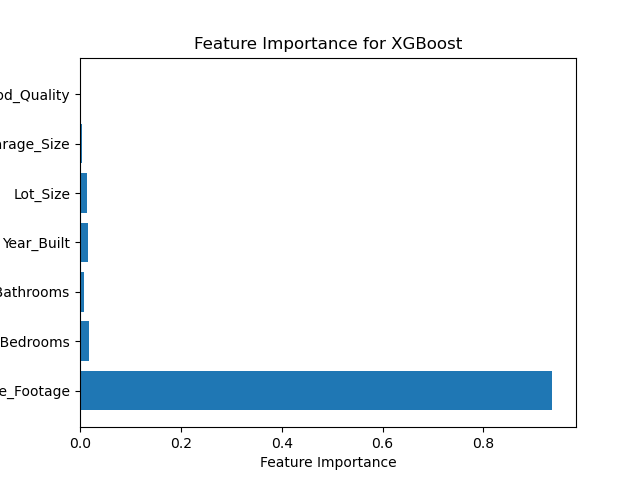
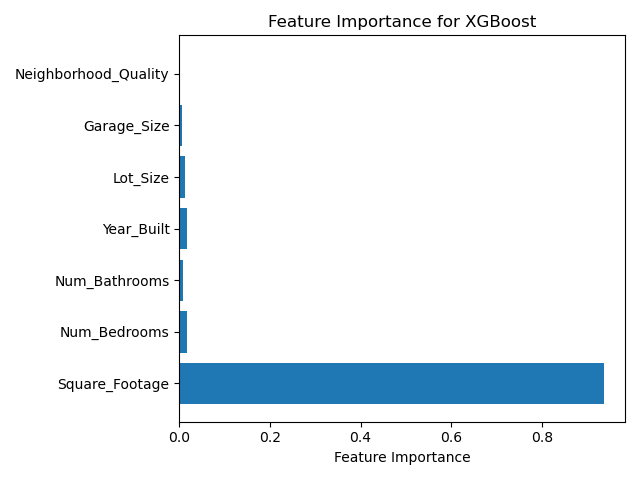
Added comments, redrew the graph for clarity

diff --git a/train_test.py b/train_test.py
@@ -9,45 +9,64 @@ import numpy as np
 import json
 from eda import read_csv_file, check_dir
 
+# Функция для разделения данных на обучающую и тестовую выборки с предварительной обработкой
 def train_test(df):
     df = df.reset_index(drop=True)
-    df['House_Price'] = np.log1p(df['House_Price'])  # Логарифмирование
+    df['House_Price'] = np.log1p(df['House_Price'])  # Логарифмирование целевой переменной
     X = df.drop('House_Price', axis=1)
     y = df['House_Price']
 
     X_train, X_test, y_train, y_test = train_test_split(X, y, test_size=0.3, random_state=101, shuffle=True)
 
+    # Масштабирование признаков
     scaler = MinMaxScaler()
     X_train = scaler.fit_transform(X_train)
     X_test = scaler.transform(X_test)
 
     return X_train, X_test, y_train, y_test, X.columns.tolist()
 
+# Функция для построения графика "Фактические vs Предсказанные"
 def plot_actual(y_test, y_pred, model_name):
     plt.scatter(y_test, y_pred, alpha=0.5)
-    plt.plot([min(y_test), max(y_test)], [min(y_test), max(y_test)], color='red',
-             linestyle='--')  # Линия идеального предсказания
+    plt.plot([min(y_test), max(y_test)], [min(y_test), max(y_test)], color='red', linestyle='--')
     plt.xlabel('Actual')
     plt.ylabel('Predicted')
-    plt.title('Actual vs Predicted')
+    plt.title(f'Actual vs Predicted for {model_name}')
     filename = f"results/actual_vs_predicted_{model_name}.png"
     plt.savefig(filename)
     plt.show()
 
+# Функция для построения графика остатков
 def plot_tails(y_test, y_pred, model_name):
     residuals = y_test - y_pred
     plt.scatter(y_pred, residuals, alpha=0.5)
     plt.axhline(y=0, color='red', linestyle='--')  # Горизонтальная линия на уровне 0
     plt.xlabel('Predicted')
     plt.ylabel('Residuals')
-    plt.title('Residual Plot')
+    plt.title(f'Residual Plot for {model_name}')
     filename = f"results/residual_plot_{model_name}.png"
+    plt.savefig(filename)
+    plt.show()
+
+# Построение важности признаков
+def plot_feature_importance(model, feature_names, model_name):
+    importances = model.feature_importances_
+
+    # Визуализация важности признаков
+    plt.barh(range(len(importances)), importances, align='center')
+    plt.yticks(range(len(importances)), feature_names)  # Используем список feature_names
+    plt.xlabel("Feature Importance")
+    plt.title(f"Feature Importance for {model_name}")
+    plt.tight_layout()
+    filename = f"results/feature_importance_{model_name}.png"
     plt.savefig(filename)
     plt.show()
 
 """Linear Regression"""
 def Linear_Regression_with_cv(X_train, X_test, y_train):
+    # Линейная регрессия с кросс-валидацией
     model = LinearRegression()
+    # Настраиваем кросс-валидацию с 5 фолдами
     kf = KFold(n_splits=5, shuffle=True, random_state=101)
     cv_scores = cross_val_score(model, X_train, y_train, cv=kf, scoring='neg_mean_squared_error')
     mse_scores = -cv_scores
@@ -57,28 +76,17 @@ def Linear_Regression_with_cv(X_train, X_test, y_train):
     print(f'Mean MSE (Cross-Validation): {mse_scores.mean()}')
     print(f'Standard Deviation of MSE (Cross-Validation): {mse_scores.std()}')
 
+    # Обучаем модель на полной обучающей выборке
     model.fit(X_train, y_train)
-
+    # Делаем предсказания на тестовой выборке
     y_pred = model.predict(X_test)
 
     return y_pred
 
-def plot_feature_importance(model, feature_names, model_name):
-    importances = model.feature_importances_
-
-    # Визуализация важности признаков
-    plt.barh(range(len(importances)), importances, align='center')
-    plt.yticks(range(len(importances)), feature_names)  # Используем список feature_names
-    plt.xlabel("Feature Importance")
-    plt.title(f"Feature Importance for {model_name}")
-    filename = f"results/feature_importance_{model_name}.png"
-    plt.savefig(filename)
-    plt.show()
-
 """XGBoost"""
 def XGBoost_with_cv(X_train, X_test, y_train, feature_names):
     model = xgb.XGBRegressor(objective='reg:squarederror', seed=101)
-
+    # Задаем сетку гиперпараметров
     param_grid = {
         'max_depth': [3, 6, 9],
         'learning_rate': [0.01, 0.1, 0.2],
@@ -86,32 +94,35 @@ def XGBoost_with_cv(X_train, X_test, y_train, feature_names):
         'subsample': [0.8, 1.0],
         'colsample_bytree': [0.8, 1.0]
     }
-
+    # Выполняем GridSearchCV для поиска лучших параметров
     grid_search = GridSearchCV(estimator=model, param_grid=param_grid, scoring='neg_mean_squared_error',
                                cv=5, n_jobs=-1, verbose=1)
     grid_search.fit(X_train, y_train)
     best_model = grid_search.best_estimator_
 
     y_pred = best_model.predict(X_test)
+    # Строим график важности признаков
     plot_feature_importance(best_model, feature_names, 'XGBoost')
     return y_pred
 
 """Random Forest"""
 def RandomForest_with_cv(X_train, X_test, y_train, feature_names):
     model = RandomForestRegressor(random_state=101)
+    # Сетка гиперпараметров
     param_grid = {
         'n_estimators': [100, 200, 300],
         'max_depth': [None, 10, 20, 30],
         'min_samples_split': [2, 5, 10],
         'min_samples_leaf': [1, 2, 4]
     }
-
+    # GridSearchCV для выбора оптимальных параметров
     grid_search = GridSearchCV(estimator=model, param_grid=param_grid, scoring='neg_mean_squared_error',
                                cv=5, n_jobs=-1, verbose=1)
     grid_search.fit(X_train, y_train)
     best_model = grid_search.best_estimator_
 
     y_pred = best_model.predict(X_test)
+    # Строим график важности признаков
     plot_feature_importance(best_model, feature_names, 'Random Forest')
     return y_pred
 
@@ -156,11 +167,14 @@ def manual_metrics(y_test, y_pred):
 
 
 if __name__ == "__main__":
+    # Загрузка данных
     filepath = 'data/cleaned_dataset.csv'
     df = read_csv_file(filepath)
 
+    # Разделение данных на тестовую и обучающую выборки
     X_train, X_test, y_train, y_test, feature_names = train_test(df)
 
+    # Проверка существования директории
     check_dir('results')
 
     data = {}
@@ -171,6 +185,7 @@ if __name__ == "__main__":
     y_pred = np.expm1(y_pred)
     y_test = np.expm1(y_test)
 
+    # Сохранение метрик для текущей модели
     data[model_name] = {
             'sklearn':
                 sklearn_metrics(y_test, y_pred),
@@ -186,13 +201,13 @@ if __name__ == "__main__":
     y_pred = RandomForest_with_cv(X_train, X_test, y_train, feature_names)
     y_pred = np.expm1(y_pred)
 
+    # Сохранение метрик для текущей модели
     data[model_name] = {
             'sklearn':
                 sklearn_metrics(y_test, y_pred),
             'manual':
                 manual_metrics(y_test, y_pred)
     }
-
 
     plot_actual(y_test, y_pred, model_name)
     plot_tails(y_test, y_pred, model_name)
@@ -202,6 +217,7 @@ if __name__ == "__main__":
     y_pred = XGBoost_with_cv(X_train, X_test, y_train, feature_names)
     y_pred = np.expm1(y_pred)
 
+    # Сохранение метрик для текущей модели
     data[model_name] = {
             'sklearn':
                 sklearn_metrics(y_test, y_pred),

diff --git a/eda.py b/eda.py
@@ -3,10 +3,12 @@ import seaborn as sns
 import matplotlib.pyplot as plt
 import os
 
+# Функция для чтения CSV файла и возврата DataFrame
 def read_csv_file(filename):
     df = pd.read_csv(filename)
     return df
 
+# Функция для проверки и создания директории
 def check_dir(dir_name):
     try:
         if not os.path.exists(dir_name):
@@ -14,18 +16,21 @@ def check_dir(dir_name):
     except OSError as e:
         print(f"Error occurred while creating the directory: {e}")
 
+# Функция для построения и сохранения матрицы корреляции
 def plot_corr_matrix(df, title, dir_name):
     corr_matrix = df.corr()
 
     plt.figure(figsize=(8,6))
     sns.heatmap(corr_matrix, annot=True, cmap='coolwarm', fmt='.2f')
     plt.title(title)
+    plt.tight_layout()
 
     check_dir(dir_name)
     filename = os.path.join(dir_name, f'{title}.png')
     plt.savefig(filename, dpi=300, bbox_inches='tight')
     plt.show()
 
+# Функция для построения и сохранения гистограммы
 def plot_histogram(column, df, dir_name, bins=30, kde=True):
     plt.figure(figsize=(8, 6))
     sns.histplot(df[column], bins=bins, kde=kde, color='blue')
@@ -33,24 +38,28 @@ def plot_histogram(column, df, dir_name, bins=30, kde=True):
     plt.title(title)
     plt.xlabel(column)
     plt.ylabel('Frequency')
+    plt.tight_layout()
 
     check_dir(dir_name)
     filepath = os.path.join(dir_name, f'histogram_{column}.png')
     plt.savefig(filepath, dpi=300, bbox_inches='tight')
     plt.show()
 
+# Функция для построения и сохранения boxplot
 def plot_boxplot(column, df, dir_name):
     plt.figure(figsize=(8, 6))
     sns.boxplot(y=df[column], color='blue')
     title = f'Boxplot for {column}'
     plt.title(title)
     plt.ylabel(column)
+    plt.tight_layout()
 
     check_dir(dir_name)
     filepath = os.path.join(dir_name, f'boxplot_{column}.png')
     plt.savefig(filepath, bbox_inches='tight')
     plt.show()
 
+# Функция для удаления дубликатов из DataFrame
 def drop_duplicates(df):
     cnt_duplicates = df.duplicated().sum()
     print(f"Number of duplicate rows: {cnt_duplicates}")
@@ -61,6 +70,7 @@ def drop_duplicates(df):
     else:
         return df
 
+# Функция для проведения анализа данных (EDA)
 def eda(df):
     print('Dataframe info:')
     print(df.info())
@@ -69,6 +79,7 @@ def eda(df):
     print('Column names of the dataset:')
     print(df.columns)
 
+    # Построение матрицы корреляции до обработки
     plot_corr_matrix(df, title='Correlation Matrix Before Preprocessing', dir_name='eda')
 
     #The correlation with target column is 0.99
@@ -76,19 +87,24 @@ def eda(df):
 
     df = drop_duplicates(df)
 
+    # Построение гистограмм и boxplot для каждого числового столбца
     for column in df.columns:
         plot_histogram(column, df, dir_name='eda')
         plot_boxplot(column, df, dir_name='eda')
 
+    # Построение матрицы корреляции после обработки
     plot_corr_matrix(df, title='Correlation Matrix After Preprocessing', dir_name='eda')
 
     return df
 
 
 if __name__ == "__main__":
+    # Загрузка данных
     filepath = 'data/house_price_regression_dataset.csv'
     df = read_csv_file(filepath)
 
+    # Проведение EDA
     cleaned_df = eda(df)
 
+    # Сохранение очищенных данных
     cleaned_df.to_csv('data/cleaned_dataset.csv', index=False)
